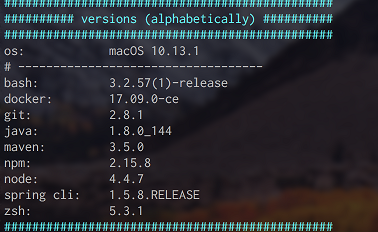
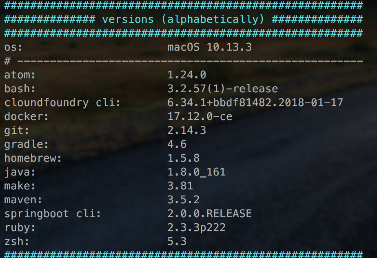
added ruby, optimized script, updated macos screenshot

diff --git a/README.md b/README.md
@@ -28,7 +28,8 @@ Actually following tools are listed (alphabetically):<br>
 * Maven
 * Npm
 * Node
-* Spring CLI
+* Ruby
+* SpringBoot CLI
 * Yarn
 * Yeoman
 * ZSH
@@ -37,9 +38,6 @@ Actually following tools are listed (alphabetically):<br>
 Screenshot macOS:<br>
 ![screenshot-macos](screen-macos.png "Screenshot macOS")
 <br>
-<br>
-Screenshot Windows:<br>
-![screenshot-windows](screen-windows.png "Screenshot Windows")
 
 
 ## Usage
